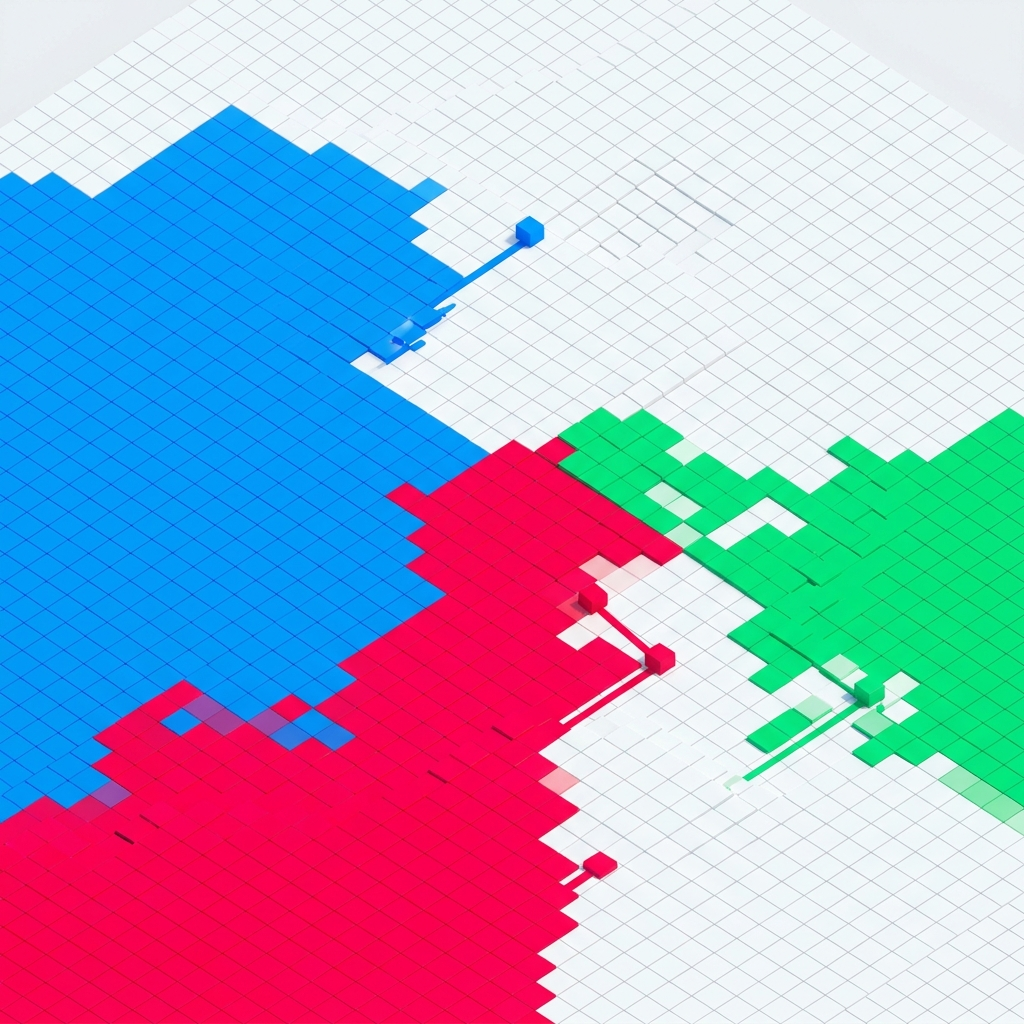
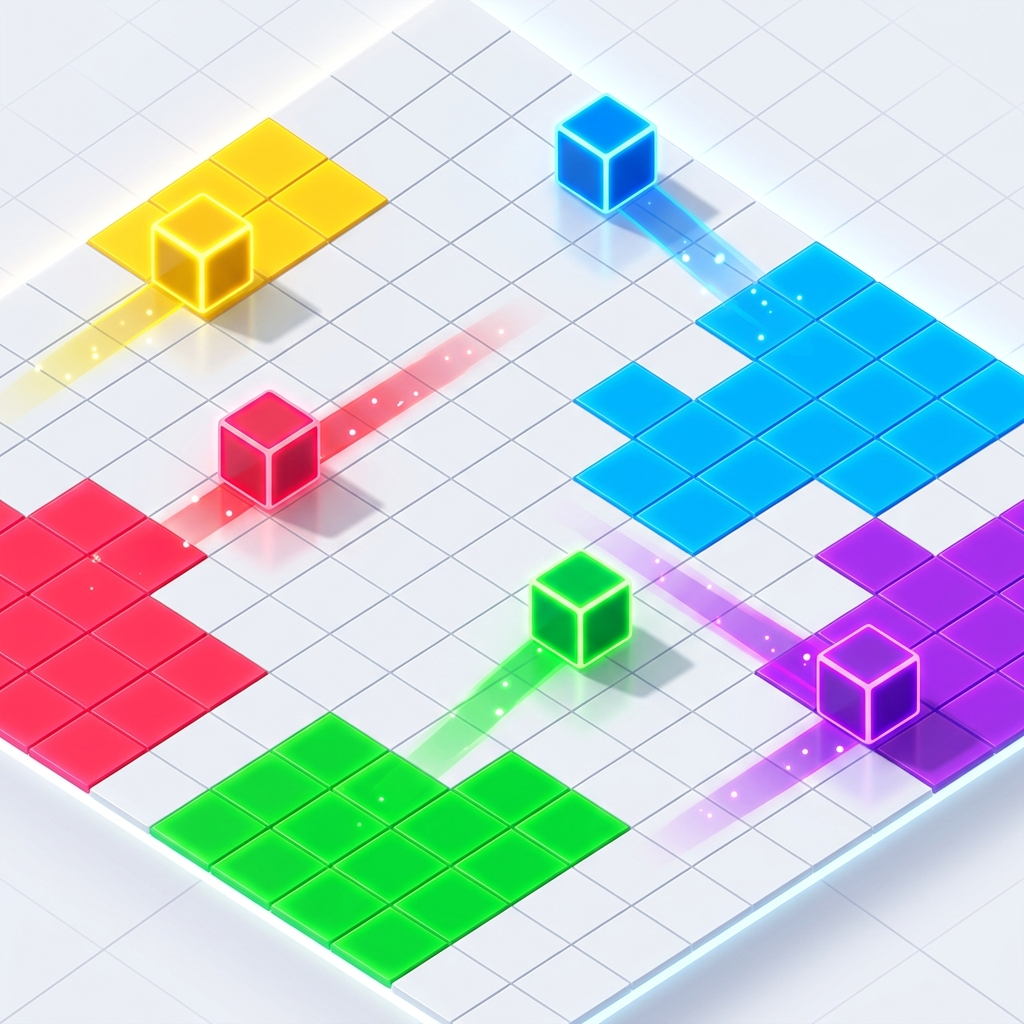
Release v0.1: Finalized UI polish, vector crowns, and isometric background

diff --git a/web/game.js b/web/game.js
@@ -247,8 +247,16 @@ function updateTerritoryCount() {
 
         const name = document.createElement('span');
         name.className = 'leaderboard-name';
-        name.textContent = index === 0 ? `👑 ${p.name}` : p.name;
         name.style.color = p.color;
+
+        if (index === 0) {
+            name.innerHTML = `<svg width="16" height="13" viewBox="-9 -14 18 15" xmlns="http://www.w3.org/2000/svg" style="display:inline-block; vertical-align:-1px; margin-right:4px;">
+                <path d="M -7,0 L 7,0 L 9,-10 L 3.5,-4 L 0,-13 L -3.5,-4 L -9,-10 Z" fill="#FFCC00" style="filter: drop-shadow(0px 1px 2px rgba(0,0,0,0.3));"/>
+            </svg>`;
+            name.appendChild(document.createTextNode(p.name));
+        } else {
+            name.textContent = p.name;
+        }
 
         const score = document.createElement('span');
         score.className = 'leaderboard-score';
@@ -608,12 +616,26 @@ function drawGame(progress) {
 
         // Draw Crown if King
         if (isKing) {
-            ctx.font = '20px sans-serif';
-            ctx.textAlign = 'center';
-            ctx.textBaseline = 'bottom';
+            let cx = visualPos.x + CELL_SIZE / 2;
+            let cy = visualPos.y - 6; // base of the crown
+            let w = 14;
+            let h = 10;
+
+            ctx.fillStyle = '#FFCC00'; // Gold color
             ctx.shadowColor = 'rgba(0,0,0,0.5)';
             ctx.shadowBlur = 4;
-            ctx.fillText('👑', visualPos.x + CELL_SIZE / 2, visualPos.y - 2);
+
+            ctx.beginPath();
+            ctx.moveTo(cx - w/2, cy); // bottom left
+            ctx.lineTo(cx + w/2, cy); // bottom right
+            ctx.lineTo(cx + w/2 + 2, cy - h); // top right peak
+            ctx.lineTo(cx + w/4, cy - h/2 + 1); // right valley
+            ctx.lineTo(cx, cy - h - 3); // center peak
+            ctx.lineTo(cx - w/4, cy - h/2 + 1); // left valley
+            ctx.lineTo(cx - w/2 - 2, cy - h); // top left peak
+            ctx.closePath();
+
+            ctx.fill();
             ctx.shadowBlur = 0;
         }
     }